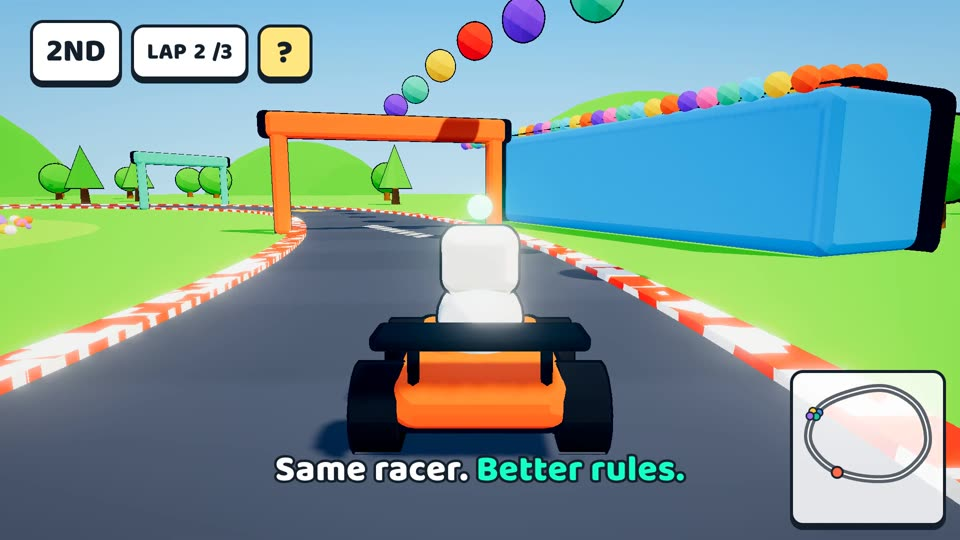
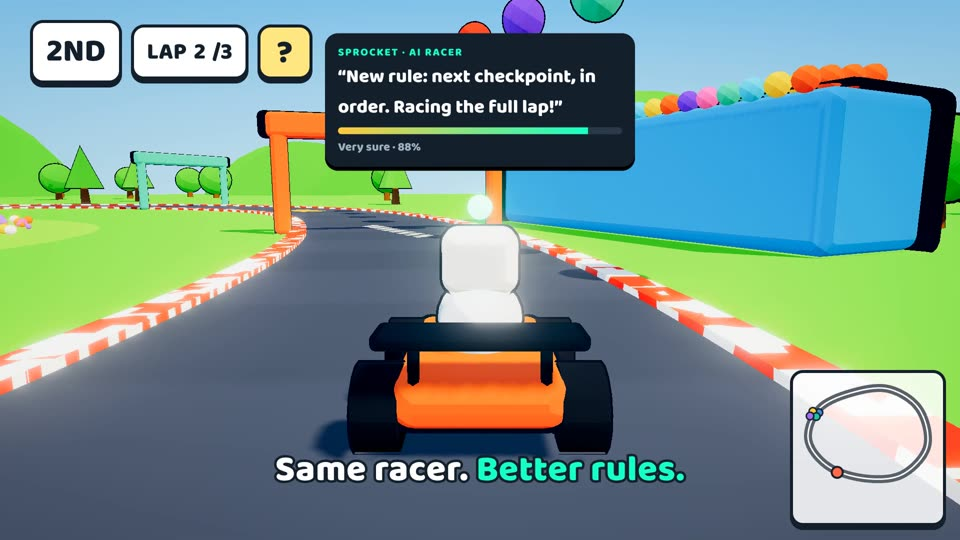
Update trailer web page: final lengths, story notes and posters
Claude-Session: https://claude.ai/code/session_01Ecde5NrR9wbRCbj1KeidHX

Changed region(s): [[0.3125, 0.0593, 0.6875, 0.3259]]

diff --git a/games/trailers/web/index.html b/games/trailers/web/index.html
@@ -138,42 +138,42 @@ const GROUPS = [
   { id: 'first', title: 'First concepts', note: 'The original six trailers, in one shared voxel style.' },
 ];
 const LABS = [
-  { g: 'client', id: 'ecotown', title: 'Eco Town', len: '0:37', venue: 'Request 1 · A world-building project with an environmental theme',
+  { g: 'client', id: 'ecotown', title: 'Eco Town', len: '0:35', venue: 'Request 1 · A world-building project with an environmental theme',
     tag: 'Power a town with the AI. Keep the lights on after dark.',
     guess: '“Cleanest power” = solar panels only', sure: 68,
     fix: 'Charge the battery while it is sunny and use it at night, with the wind turbines helping.',
     learn: 'An AI can chase one word (“cleanest”) and forget what happens later (night).' },
-  { g: 'client', id: 'tycoon2', title: 'Island Park Tycoon', len: '0:36', venue: 'Request 2 · A resource management game like the old Zoo and RollerCoaster Tycoon games',
+  { g: 'client', id: 'tycoon2', title: 'Island Park Tycoon', len: '0:34', venue: 'Request 2 · A resource management game like the old Zoo and RollerCoaster Tycoon games',
     tag: 'Manager Bot does what you say. Say what you mean.',
     guess: '“Get 50 guests” = a path straight through the meadow', sure: 92,
-    fix: 'Rewrite the goal with a limit: “Get 50 guests and keep the meadow wild.”',
+    fix: 'Rewrite the goal with limits: “Get 50 guests. Keep the meadow wild and tidy.”',
     learn: 'Pushing one number causes side effects. Good goals say what must not change.' },
-  { g: 'client', id: 'mcquiz', title: 'Block Quiz', len: '0:36', venue: 'Request 3 · A quiz on Minecraft',
+  { g: 'client', id: 'mcquiz', title: 'Block Quiz', len: '0:34', venue: 'Request 3 · A quiz on Minecraft',
     tag: 'Stand on your answer. Check the AI before you jump.',
     guess: 'A Nether portal frame is made of “Lava!”', sure: 90,
-    fix: 'Teams check the AI’s answer and stand on Obsidian. Wrong answer pads drop away.',
+    fix: 'The room tells the AI: answer, and tell us WHY. Now it gives a reason the teams can check.',
     learn: 'An AI can sound sure and still be wrong. Check it before you trust it.' },
   { g: 'client', id: 'dash', title: 'Beat Block', len: '0:35', venue: 'Request 4 · A game with repeat playability like Geometry Dash',
     tag: 'One button. Every try teaches you the beat.',
     guess: '“Jump on the 4th beat!”', sure: 92,
-    fix: 'Practice mode and instant restarts. Players learn the real beat and ignore the co-pilot.',
+    fix: 'Tell the co-pilot to count along with the music first. Then practise until the full run lands.',
     learn: 'Very sure is not the same as right. Every attempt teaches you something.' },
-  { g: 'client', id: 'bloxel', title: 'Block Quest', len: '0:36', venue: 'Request 5 · A game like Bloxels',
+  { g: 'client', id: 'bloxel', title: 'Block Quest', len: '0:34', venue: 'Request 5 · A game like Bloxels',
     tag: 'Build it. Play it. Teach the AI what fun means.',
     guess: '“Harder” = more spikes', sure: 89,
-    fix: 'Explain what “harder” means. Then help the AI see the dragon by adding wings and fire.',
+    fix: 'Say what harder means: one tricky jump, keep it fair. Then add wings so the AI sees a dragon.',
     learn: 'The AI only knows what you show and tell it.' },
-  { g: 'client', id: 'city', title: 'Autopilot City', len: '0:38', venue: 'Request 6 · A self-driving car game in a city',
+  { g: 'client', id: 'city', title: 'Autopilot City', len: '0:33', venue: 'Request 6 · A self-driving car game in a city',
     tag: 'Label what the car sees. Train it. Drive again.',
     guess: 'A runner on a billboard = “Person”', sure: 91,
-    fix: 'Train with clearer examples so the car spots the child chasing a ball (88%).',
+    fix: 'Train it with pictures of posters and of children half hidden behind cars. Then test both.',
     learn: 'A self-driving car is only as good as the examples it learned from.' },
-  { g: 'client', id: 'kart', title: 'Pit Crew GP', len: '0:36', venue: 'Request 7 · A racing game',
+  { g: 'client', id: 'kart', title: 'Pit Crew GP', len: '0:35', venue: 'Request 7 · A racing game',
     tag: 'You don’t drive. You write the robot’s rules.',
-    guess: 'Loops one checkpoint: 47 stars, 0 laps', sure: 92,
-    fix: 'Reward each new checkpoint in order, then a lap. The robot races clean and wins.',
+    guess: '“More checkpoints = more stars. Any way I like!”', sure: 92,
+    fix: 'Stars only for new checkpoints, in order. The robot races the full lap and wins.',
     learn: 'An AI chases whatever earns points, so it finds loopholes.' },
-  { g: 'brochure', id: 'eco', title: 'Eco AI Explorer', len: '0:38', venue: 'Nature centres',
+  { g: 'brochure', id: 'eco', title: 'Eco AI Explorer', len: '0:36', venue: 'Nature centres',
     tag: 'Design a pond for wildlife and visitors. Check the AI’s guess.',
     guess: '“Nice” = neat: cut the reeds, add a gravel path', sure: 64,
     fix: 'Pick the clearer card: a boardwalk, and keep the reeds wild. The ducks come back.',
